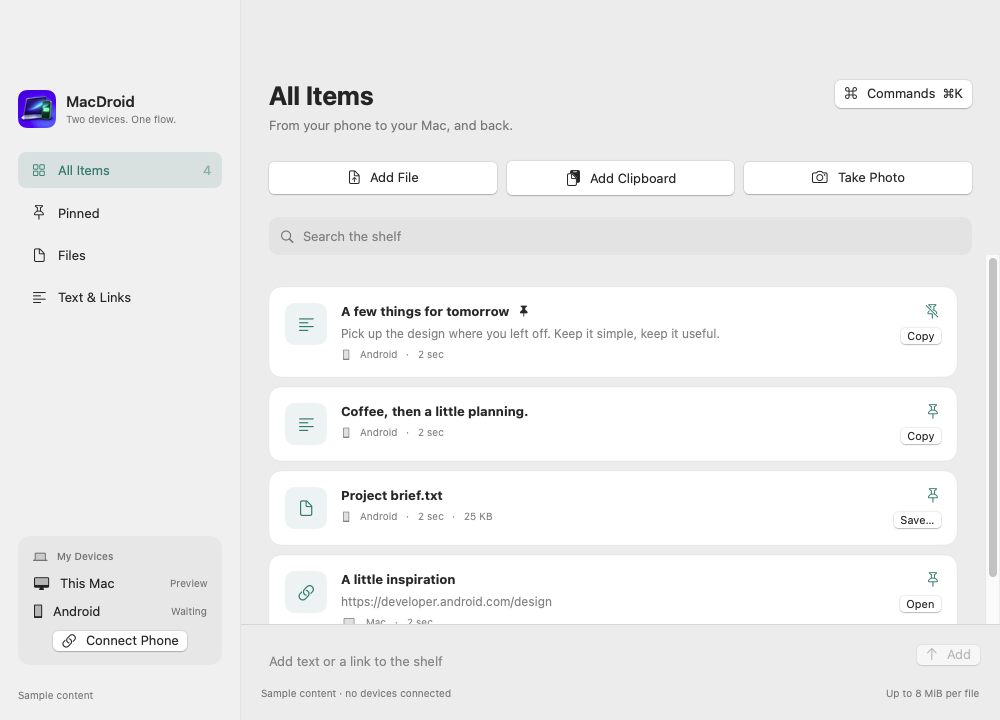
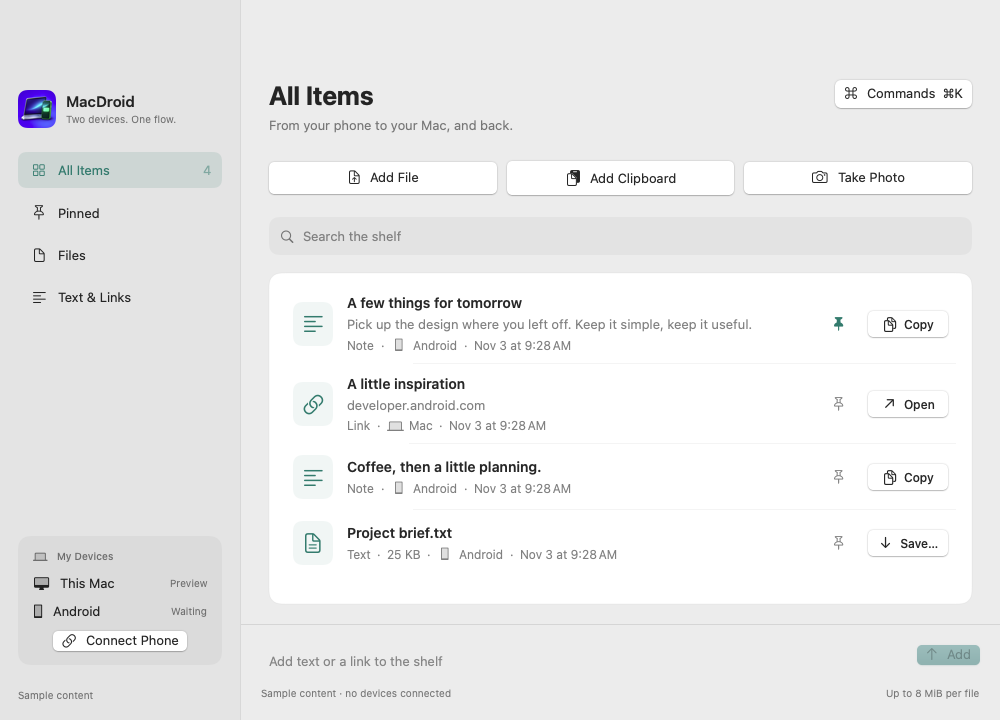
Refine Mac shelf rows and prevent rebuilding a running app
Group items in one native list with readable metadata, aligned actions, copy feedback, and selectable full-text details. Expose selected filters and meaningful empty states to assistive technology.

Stage and verify signed bundles before replacement and refuse to overwrite running apps. Validate the guard against the live app, preserve the existing shelf, and refresh the native screenshot.

diff --git a/apps/macos/Sources/MacDroid/ShelfView.swift b/apps/macos/Sources/MacDroid/ShelfView.swift
@@ -15,6 +15,8 @@ struct ShelfView: View {
     @State private var section = "All Items"
     @State private var draft = ""
     @State private var targeting = false
+    @State private var selectedItemID: String?
+    @State private var detailItem: ShelfItem?
     @FocusState private var composerFocused: Bool
     private let sections = [("All Items", "square.grid.2x2"), ("Pinned", "pin"), ("Files", "doc"), ("Text & Links", "text.alignleft")]
     var filtered: [ShelfItem] {
@@ -39,6 +41,7 @@ struct ShelfView: View {
                                 .padding(10).frame(maxWidth: .infinity, alignment: .leading)
                                 .background(section == name ? accent.opacity(0.13) : .clear, in: RoundedRectangle(cornerRadius: 8))
                         }.buttonStyle(.plain).foregroundStyle(section == name ? accent : .primary)
+                            .accessibilityAddTraits(section == name ? .isSelected : [])
                     }
                 }
                 Spacer()
@@ -78,16 +81,30 @@ struct ShelfView: View {
                 if filtered.isEmpty {
                     VStack(spacing: 14) {
                         Image(systemName: search.isEmpty ? "tray" : "magnifyingglass").font(.system(size: 44, weight: .light)).foregroundStyle(accent)
-                        Text(search.isEmpty ? "Add your first item" : "No matching items").font(.title2.bold())
-                        Text(search.isEmpty ? "Drop a file here or write a note below.\nConnect your phone to share items between devices." : "Try another search or category.")
+                        Text(emptyTitle).font(.title2.bold())
+                        Text(emptyMessage)
                             .multilineTextAlignment(.center).foregroundStyle(.secondary)
-                        if search.isEmpty { Button("Connect Phone") { model.showPairing = true }.buttonStyle(.borderedProminent).tint(accent) }
+                        if search.isEmpty && model.items.isEmpty { Button("Connect Phone") { model.showPairing = true }.buttonStyle(.borderedProminent).tint(accent) }
                     }.frame(maxWidth: .infinity, maxHeight: .infinity).padding(30)
                 } else {
-                    ScrollView {
-                        LazyVStack(spacing: 10) {
-                            ForEach(filtered) { item in itemRow(item) }
-                        }.padding(28).padding(.top, 4)
+                    List(selection: $selectedItemID) {
+                        ForEach(filtered) { item in
+                            ShelfItemRow(item: item, accent: accent,
+                                         onAction: { model.open(item) }, onPin: { model.pin(item) },
+                                         onDetails: { detailItem = item })
+                                .tag(item.id)
+                                .listRowInsets(EdgeInsets(top: 0, leading: 0, bottom: 0, trailing: 0))
+                                .listRowSeparatorTint(Color(nsColor: .separatorColor).opacity(0.45))
+                        }
+                    }
+                    .listStyle(.inset).scrollContentBackground(.hidden)
+                    .background(Color(nsColor: .controlBackgroundColor), in: RoundedRectangle(cornerRadius: 12))
+                    .overlay(RoundedRectangle(cornerRadius: 12).stroke(Color(nsColor: .separatorColor).opacity(0.35)))
+                    .padding(.horizontal, 28).padding(.top, 18).padding(.bottom, 20)
+                    .onKeyPress(.return) {
+                        guard let item = filtered.first(where: { $0.id == selectedItemID }) else { return .ignored }
+                        detailItem = item
+                        return .handled
                     }
                 }
                 Divider()
@@ -116,34 +133,31 @@ struct ShelfView: View {
         .tint(accent).frame(minWidth: 800, minHeight: 600)
         .sheet(isPresented: $model.showPairing) { PairingView().environmentObject(model) }
         .sheet(isPresented: $model.showCommands) { commands }
+        .sheet(item: $detailItem) { item in ShelfItemDetails(item: item, onAction: { model.open(item) }) }
         .alert("Could Not Complete the Action", isPresented: Binding(get: { model.error != nil }, set: { if !$0 { model.error = nil } })) {
             Button("OK") { model.error = nil }
         } message: { Text(model.error ?? "") }
     }
+    private var emptyTitle: String {
+        if !search.isEmpty { return "No matching items" }
+        switch section {
+        case "Pinned": return "No pinned items"
+        case "Files": return "No files yet"
+        case "Text & Links": return "No notes or links yet"
+        default: return "Add your first item"
+        }
+    }
+    private var emptyMessage: String {
+        if !search.isEmpty { return "Try another search or category." }
+        switch section {
+        case "Pinned": return "Pin an item to keep it within reach here."
+        case "Files": return "Add a file or share one from your phone."
+        case "Text & Links": return "Write a note below, or share a link from your phone."
+        default: return "Drop a file here or write a note below.\nConnect your phone to share items between devices."
+        }
+    }
     private func action(_ title: String, symbol: String, action: @escaping () -> Void) -> some View {
         Button(action: action) { Label(title, systemImage: symbol).padding(.vertical, 7).frame(maxWidth: .infinity) }.buttonStyle(.bordered)
-    }
-    private func itemRow(_ item: ShelfItem) -> some View {
-        HStack(alignment: .top, spacing: 14) {
-            Image(systemName: item.kind == "file" ? "doc" : item.kind == "link" ? "link" : "text.alignleft")
-                .font(.title3).foregroundStyle(accent).frame(width: 42, height: 42).background(accent.opacity(0.09), in: RoundedRectangle(cornerRadius: 10)).accessibilityHidden(true)
-            VStack(alignment: .leading, spacing: 7) {
-                HStack { Text(item.title).font(.headline).lineLimit(2).textSelection(.enabled); if item.pinned { Image(systemName: "pin.fill").font(.caption).accessibilityLabel("Pinned") } }
-                if let text = item.text, text != item.title { Text(text).font(.callout).foregroundStyle(.secondary).lineLimit(3).textSelection(.enabled) }
-                HStack(spacing: 8) {
-                    Label(item.source, systemImage: item.source == "Mac" ? "laptopcomputer" : "smartphone")
-                    Text("·")
-                    Text(Date(timeIntervalSince1970: item.createdAt), style: .relative)
-                    if item.kind == "file" { Text("·"); Text(ByteCountFormatter.string(fromByteCount: Int64(item.size), countStyle: .file)) }
-                }.font(.caption).foregroundStyle(.secondary)
-            }
-            Spacer(minLength: 0)
-            VStack(alignment: .trailing, spacing: 8) {
-                Button { model.pin(item) } label: { Image(systemName: item.pinned ? "pin.slash" : "pin") }.buttonStyle(.borderless).accessibilityLabel(item.pinned ? "Unpin" : "Pin Item")
-                Button(item.kind == "file" ? "Save…" : item.kind == "link" ? "Open" : "Copy") { model.open(item) }.controlSize(.small)
-            }
-        }.padding(16).background(Color(nsColor: .controlBackgroundColor), in: RoundedRectangle(cornerRadius: 12))
-        .overlay(RoundedRectangle(cornerRadius: 12).stroke(.separator.opacity(0.35)))
     }
     private var commands: some View {
         VStack(alignment: .leading, spacing: 16) {

diff --git a/apps/macos/Sources/MacDroid/ShelfItemRow.swift b/apps/macos/Sources/MacDroid/ShelfItemRow.swift
@@ -1,0 +1,150 @@
+import SwiftUI
+import UniformTypeIdentifiers
+import MacDroidCore
+
+struct ShelfItemRow: View {
+    let item: ShelfItem
+    let accent: Color
+    let onAction: () -> Void
+    let onPin: () -> Void
+    let onDetails: () -> Void
+    @State private var copied = false
+
+    private var symbol: String {
+        if item.kind == "link" { return "link" }
+        if item.kind != "file" { return "text.alignleft" }
+        if item.mime?.hasPrefix("image/") == true { return "photo" }
+        if item.mime == "application/pdf" { return "doc.richtext" }
+        return "doc.text"
+    }
+    private var preview: String? {
+        guard let text = item.text, text != item.title, !text.hasPrefix(item.title) else { return nil }
+        if item.kind == "link", let url = URL(string: text) { return url.host ?? text }
+        return text.replacingOccurrences(of: "\n", with: " ")
+    }
+    private var actionTitle: String {
+        if copied { return "Copied" }
+        return item.kind == "file" ? "Save…" : item.kind == "link" ? "Open" : "Copy"
+    }
+    private var actionSymbol: String {
+        if copied { return "checkmark" }
+        return item.kind == "file" ? "arrow.down" : item.kind == "link" ? "arrow.up.right" : "doc.on.doc"
+    }
+    var body: some View {
+        HStack(spacing: 14) {
+            Image(systemName: symbol)
+                .font(.system(size: 19, weight: .regular))
+                .foregroundStyle(accent)
+                .frame(width: 40, height: 44)
+                .background(accent.opacity(0.07), in: RoundedRectangle(cornerRadius: 9))
+                .accessibilityHidden(true)
+            Button(action: onDetails) {
+                VStack(alignment: .leading, spacing: 5) {
+                    Text(item.title.replacingOccurrences(of: "\n", with: " "))
+                        .font(.system(size: 14, weight: .semibold))
+                        .foregroundStyle(.primary).lineLimit(1)
+                        .truncationMode(item.kind == "file" ? .middle : .tail)
+                    if let preview {
+                        Text(preview).font(.system(size: 13)).foregroundStyle(.secondary).lineLimit(1)
+                    }
+                    ShelfItemMetadata(item: item)
+                }
+                .frame(maxWidth: .infinity, alignment: .leading)
+                .contentShape(Rectangle())
+            }
+            .buttonStyle(.plain).help("View item details")
+            .accessibilityHint("Opens the full item")
+            Button(action: onPin) {
+                Image(systemName: item.pinned ? "pin.fill" : "pin")
+                    .font(.system(size: 12, weight: .medium))
+                    .foregroundStyle(item.pinned ? accent : Color.secondary)
+                    .frame(width: 30, height: 30)
+            }
+            .buttonStyle(.borderless)
+            .help(item.pinned ? "Unpin item" : "Pin item")
+            .accessibilityLabel(item.pinned ? "Unpin item" : "Pin item")
+            .accessibilityValue(item.pinned ? "Pinned" : "Not pinned")
+            Button {
+                onAction()
+                if item.kind == "text" { copied = true }
+            } label: {
+                Label(actionTitle, systemImage: actionSymbol)
+                    .foregroundStyle(.primary)
+                    .font(.system(size: 12, weight: .medium))
+                    .frame(width: 70, height: 24)
+            }
+            .buttonStyle(.bordered).controlSize(.regular)
+            .help(item.kind == "file" ? "Save this file to your Mac" : item.kind == "link" ? "Open this link in your browser" : "Copy note to clipboard")
+            .task(id: copied) {
+                guard copied else { return }
+                do { try await Task.sleep(for: .seconds(2)); copied = false } catch { }
+            }
+        }
+        .padding(.vertical, 11).padding(.horizontal, 8)
+        .contextMenu {
+            Button("View Details", action: onDetails)
+            Button(item.kind == "file" ? "Save File…" : item.kind == "link" ? "Open Link" : "Copy Text", action: onAction)
+            Divider()
+            Button(item.pinned ? "Unpin Item" : "Pin Item", action: onPin)
+        }
+    }
+}
+
+struct ShelfItemMetadata: View {
+    let item: ShelfItem
+    private var kind: String {
+        if item.kind == "link" { return "Link" }
+        if item.kind != "file" { return "Note" }
+        if let mime = item.mime, let type = UTType(mimeType: mime), let name = type.localizedDescription { return name.prefix(1).uppercased() + name.dropFirst() }
+        return "File"
+    }
+    var body: some View {
+        HStack(spacing: 6) {
+            Text(kind)
+            if item.kind == "file" {
+                Text("·").accessibilityHidden(true)
+                Text(ByteCountFormatter.string(fromByteCount: Int64(item.size), countStyle: .file))
+            }
+            Text("·").accessibilityHidden(true)
+            Label(item.source, systemImage: item.source == "Mac" ? "laptopcomputer" : "smartphone")
+            Text("·").accessibilityHidden(true)
+            Text(Date(timeIntervalSince1970: item.createdAt), format: .dateTime.month(.abbreviated).day().hour().minute())
+        }
+        .font(.system(size: 12)).foregroundStyle(.secondary).lineLimit(1)
+        .accessibilityElement(children: .combine)
+    }
+}
+
+struct ShelfItemDetails: View {
+    let item: ShelfItem
+    let onAction: () -> Void
+    @Environment(\.dismiss) private var dismiss
+    @State private var copied = false
+    var body: some View {
+        VStack(alignment: .leading, spacing: 20) {
+            HStack(alignment: .top) {
+                VStack(alignment: .leading, spacing: 8) {
+                    Text(item.kind == "text" ? "Note" : item.kind == "link" ? "Link" : "File")
+                        .font(.title2.weight(.semibold))
+                    ShelfItemMetadata(item: item)
+                }
+                Spacer()
+                Button("Done") { dismiss() }.keyboardShortcut(.cancelAction)
+            }
+            Divider()
+            ScrollView {
+                Text(item.text ?? item.filename ?? item.title)
+                    .font(.system(size: 15)).lineSpacing(5)
+                    .frame(maxWidth: .infinity, alignment: .leading).textSelection(.enabled)
+                    .padding(.vertical, 4)
+            }.frame(minHeight: 160, maxHeight: 400)
+            HStack {
+                Spacer()
+                Button(copied ? "Copied" : item.kind == "file" ? "Save File…" : item.kind == "link" ? "Open Link" : "Copy Text") {
+                    onAction()
+                    if item.kind == "text" { copied = true }
+                }.keyboardShortcut(.defaultAction).controlSize(.large)
+            }
+        }.padding(24).frame(width: 530)
+    }
+}

diff --git a/apps/macos/Sources/MacDroid/MacDroidApp.swift b/apps/macos/Sources/MacDroid/MacDroidApp.swift
@@ -68,7 +68,8 @@ final class AppDelegate: NSObject, NSApplicationDelegate {
             return noErr
         }, 1, &event, Unmanaged.passUnretained(self).toOpaque(), &eventHandler)
         let identifier = EventHotKeyID(signature: 0x4D445244, id: 1)
-        RegisterEventHotKey(UInt32(kVK_Space), UInt32(cmdKey | shiftKey), identifier, GetApplicationEventTarget(), 0, &hotKey)
+        let status = RegisterEventHotKey(UInt32(kVK_Space), UInt32(cmdKey | shiftKey), identifier, GetApplicationEventTarget(), 0, &hotKey)
+        if status != noErr { NSLog("MacDroid global shortcut unavailable (status %d).", status) }
     }
     func applicationShouldTerminateAfterLastWindowClosed(_ sender: NSApplication) -> Bool { false }
     func applicationShouldHandleReopen(_ sender: NSApplication, hasVisibleWindows flag: Bool) -> Bool { reveal(); return true }

diff --git a/docs/development.md b/docs/development.md
@@ -12,7 +12,7 @@ open dist/MacDroid.app
 swift test --package-path apps/macos
 ```
 
-Local builds use ad-hoc signing. Set `MACDROID_SIGN_IDENTITY` to use your own signing identity. Rebuilt development apps may require renewed Keychain approval.
+Quit MacDroid before rebuilding; the script refuses to replace a running app. Local builds use ad-hoc signing. Set `MACDROID_SIGN_IDENTITY` to use your own signing identity. Rebuilt development apps may require renewed Keychain approval.
 
 ## Android
 
@@ -54,7 +54,7 @@ Real-phone QR/camera, LTE, sleep/wake, permissions, accessibility, and battery b
 
 Run `./scripts/test-android-ui.sh emulator-5580` on a disposable emulator for the Android UI gate (Node.js 22+ required). It uses an isolated loopback shelf, checks search/details/attachments, and captures onboarding, light/dark themes, large text, landscape, and tablet layouts under `artifacts/android-ui/`.
 
-After building the Mac app, `./scripts/capture-mac-ui.sh` creates a separately identified screenshot app and renders its sample shelf to `artifacts/macos-ui/shelf.png`. It never loads the personal shelf, pairing key, or network services. Set `MACDROID_SCREENSHOT_APPEARANCE=dark` for a dark capture.
+After building the Mac app, `./scripts/capture-mac-ui.sh` creates a separately identified screenshot app and renders its sample shelf to `artifacts/macos-ui/shelf.png`. It never loads the personal shelf, pairing key, or network services. Quit the screenshot app before capturing again. Set `MACDROID_SCREENSHOT_APPEARANCE=dark` for a dark capture.
 
 ## Package a release
 
